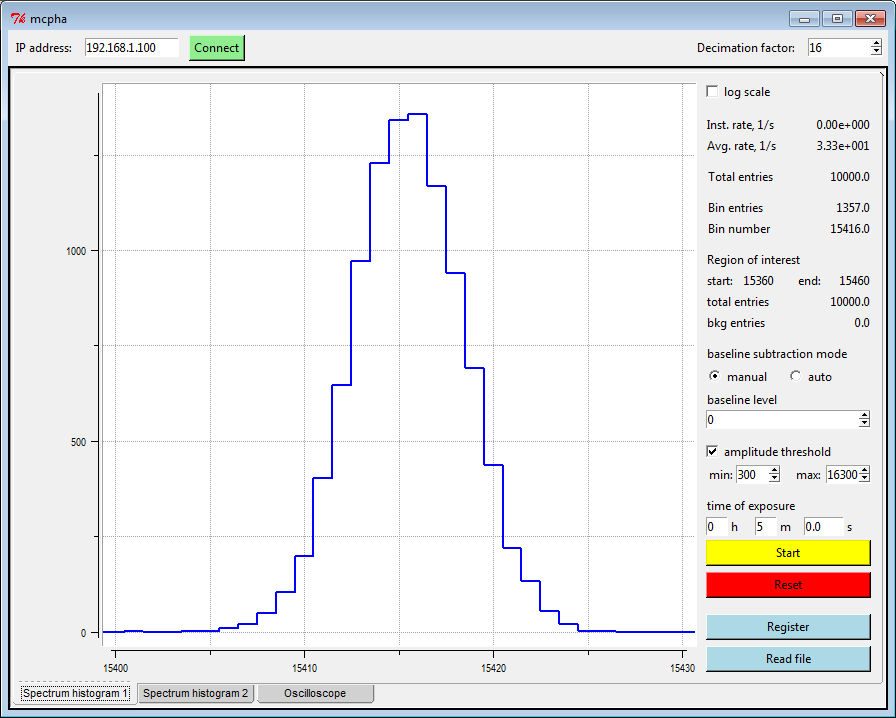
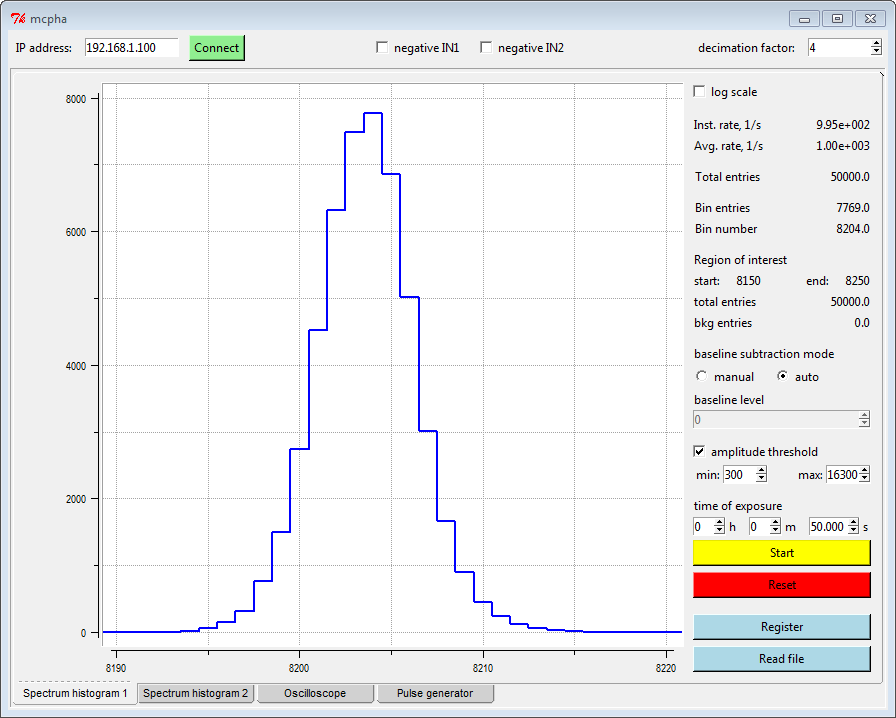
add more information to mcpha

diff --git a/mcpha.md b/mcpha.md
@@ -25,9 +25,26 @@ Radiation Spectroscopy](https://www.caen.it/documents/News/32/AN2508_Digital_Pul
 Hardware
 -----
 
-The basic blocks of the system are shown on the following diagram:
+This system is designed to analyze the height of Gaussian-shaped pulses and it expects a signal from a pulse-shaping amplifier. It is also known to work with non-overlapping exponentially rising and exponentially decaying pulses.
+
+The position of the HV/LV jumpers of the [fast analog inputs](https://redpitaya.readthedocs.io/en/latest/developerGuide/125-14/fastIO.html#fast-analog-io) should be chosen depending on the amplitude range of the input signal. Ideally, the amplitude range of the input signal should closely match the chosen hardware input range.
+
+The basic blocks of the system are shown on the following diagrams:
 
 ![Multichannel Pulse Height Analyzer]({{ "/img/mcpha.png" | prepend: site.baseurl }})
+
+![Exponential Pulse Generator]({{ "/img/mcpha-gen.png" | prepend: site.baseurl }})
+
+The width of the pulse at the input of the pulse height analyzer module can be adjusted by varying the decimation factor of the CIC filter.
+
+Two baseline subtraction modes are implemented:
+
+ - In the manual mode, a constant value is subtracted from the measured peak height value.
+ - In the auto mode, the base line level is defined as the minimum value just before the rising edge of the analyzed pulse.
+
+The embedded oscilloscope can be used to check the shape of the pulse at the input of the pulse height analyzer module.
+
+The exponential pulse generator can be used to generate signals with specified time and amplitude distributions. It consists of an impulse generator module and two IIR filters. The impulse generator module outputs a 8 ns (1 clock cycle at 125 MHz) impulse of a required amplitude and after a required time interval. The two IIR filters are used to emulate the exponentially rising and exponentially decaying edges of the generated pulses.
 
 The [projects/mcpha](https://github.com/pavel-demin/red-pitaya-notes/tree/master/projects/mcpha) directory contains five Tcl files: [block_design.tcl](https://github.com/pavel-demin/red-pitaya-notes/blob/master/projects/mcpha/block_design.tcl), [pha.tcl](https://github.com/pavel-demin/red-pitaya-notes/blob/master/projects/mcpha/pha.tcl), [hst.tcl](https://github.com/pavel-demin/red-pitaya-notes/blob/master/projects/mcpha/hst.tcl), [osc.tcl](https://github.com/pavel-demin/red-pitaya-notes/blob/master/projects/mcpha/osc.tcl), [gen.tcl](https://github.com/pavel-demin/red-pitaya-notes/blob/master/projects/mcpha/gen.tcl). The code in these files instantiates, configures and interconnects all the needed IP cores.
 
